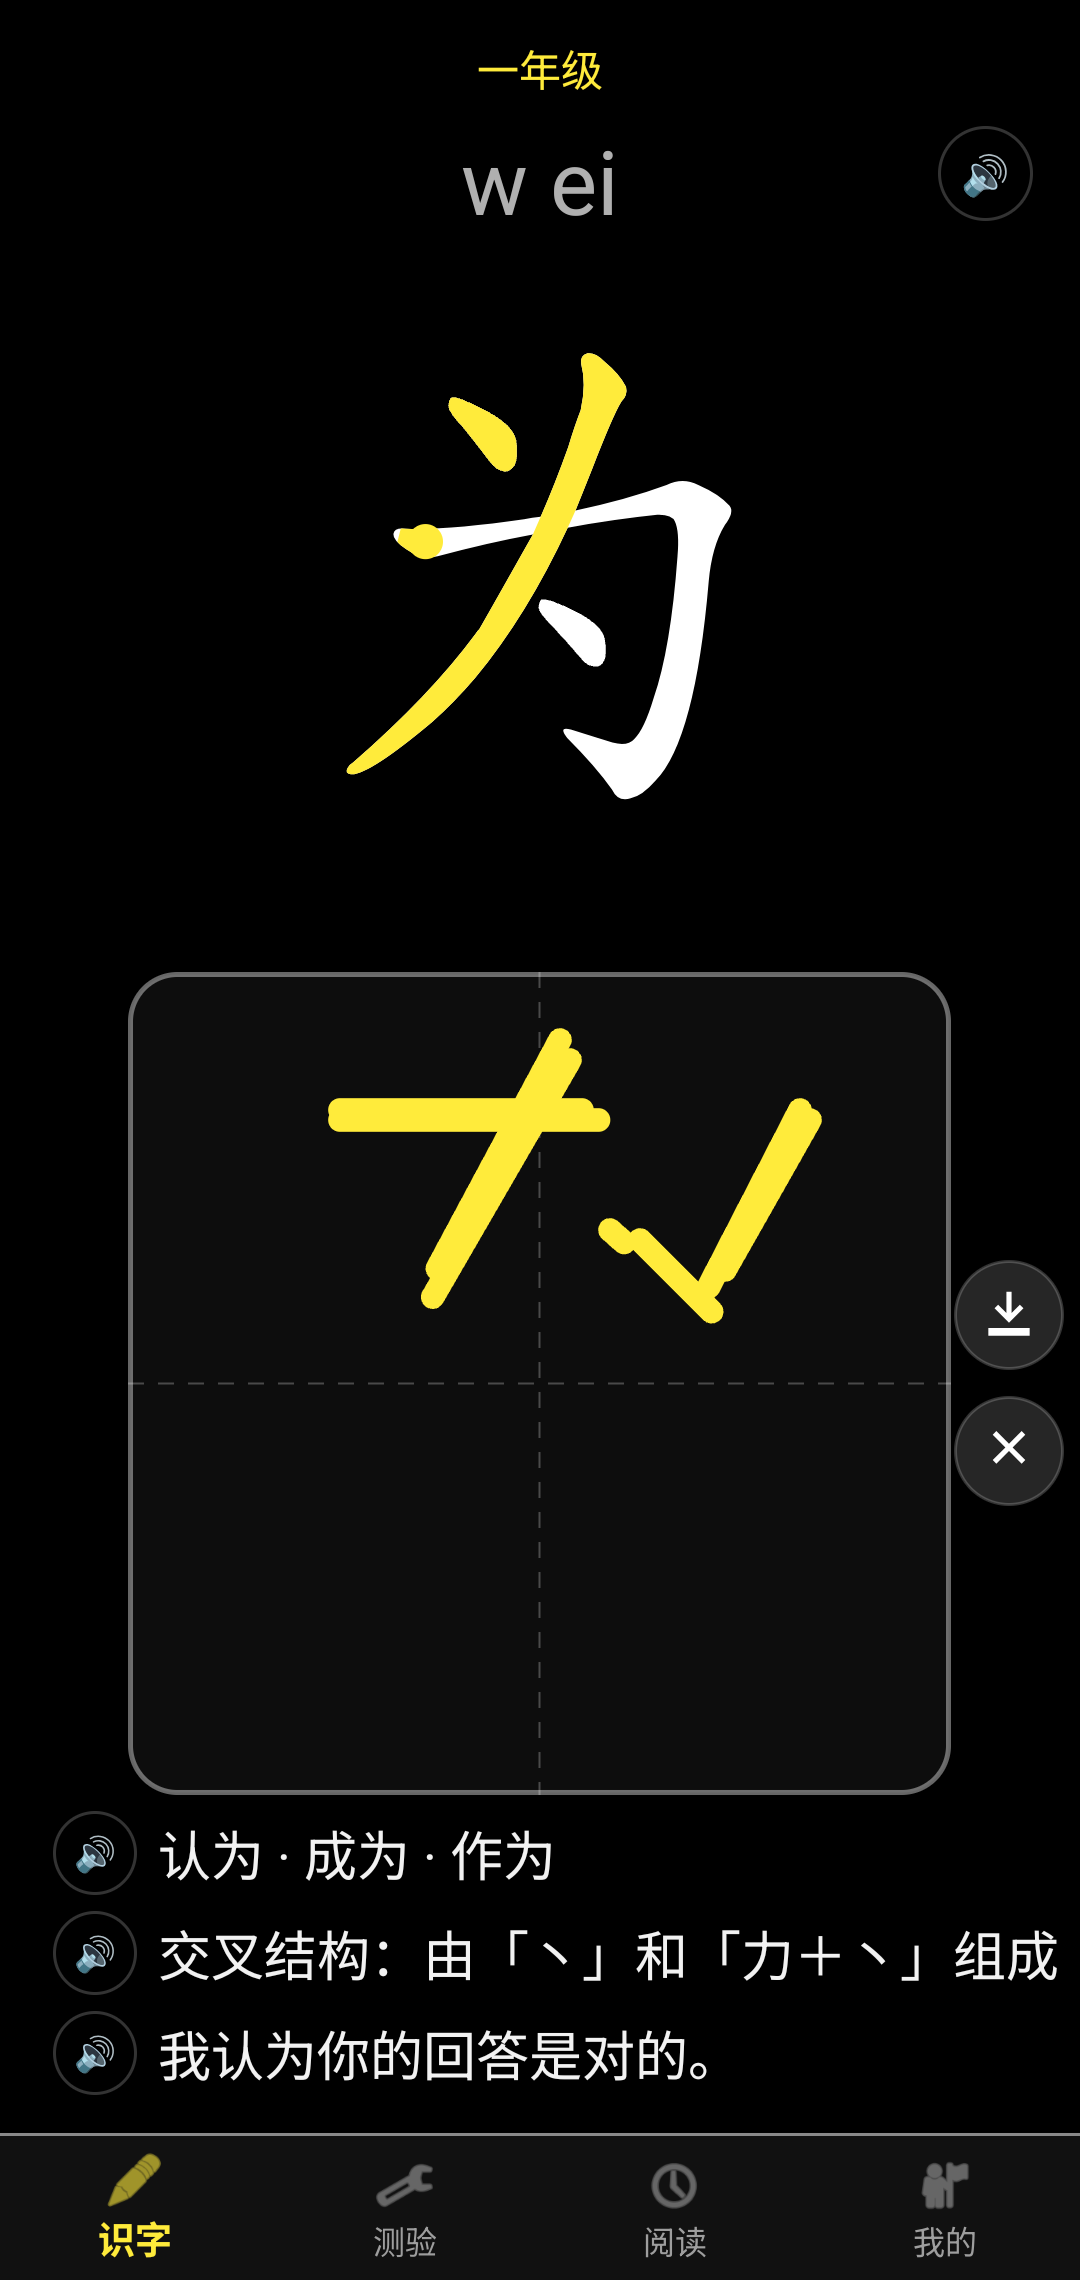
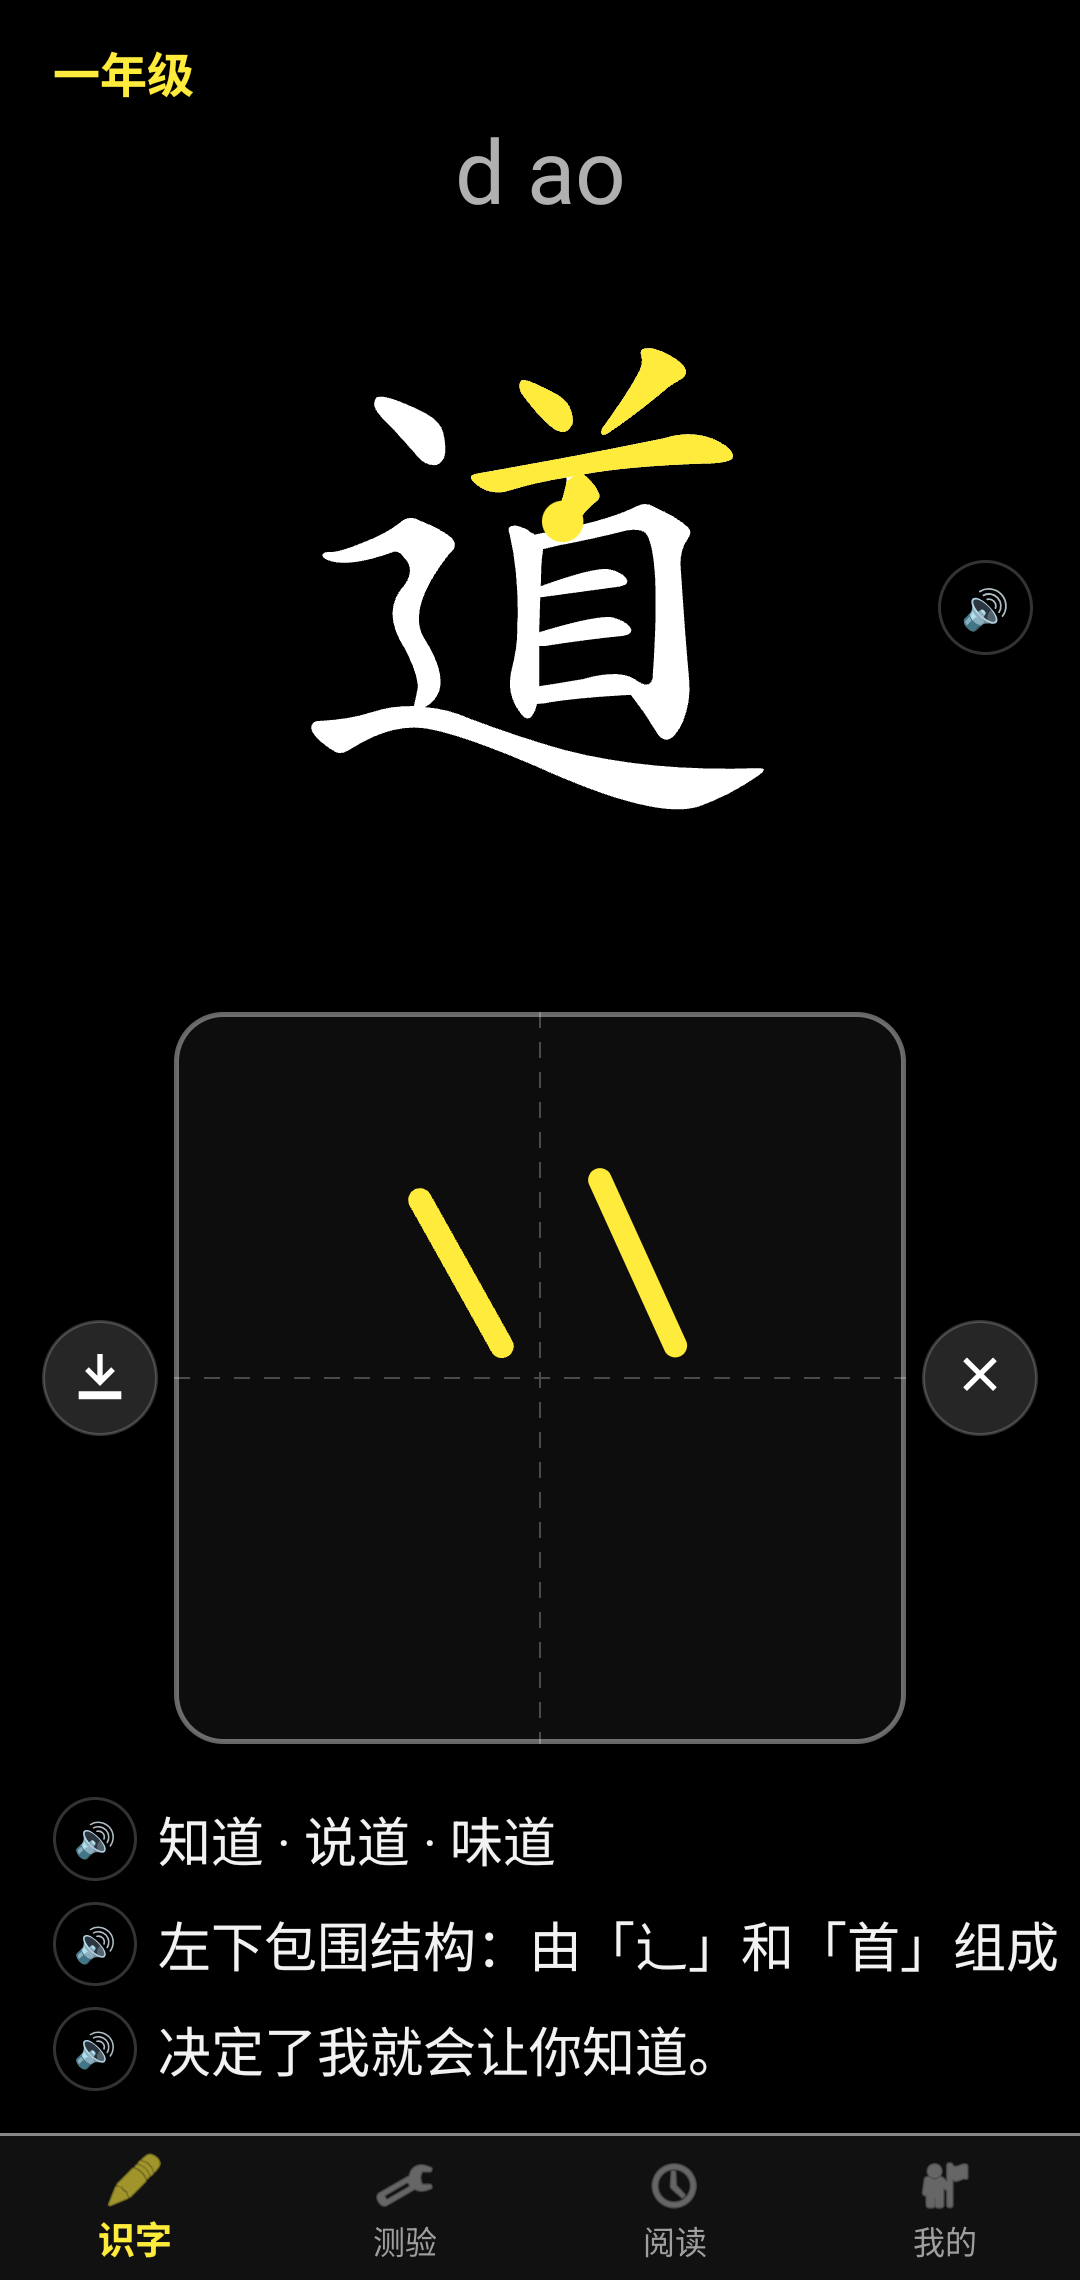
练写区重排：存图按钮挪到格子左侧、擦除留在右侧，格子边长只随屏幕宽度变化，和两个按钮的间距固定不再忽大忽小；拉开练写区与词组/巧记/场景的间距，整体行距微调

diff --git a/app/src/main/java/com/easyword/learn/view/DrawingView.java b/app/src/main/java/com/easyword/learn/view/DrawingView.java
@@ -116,8 +116,9 @@ public class DrawingView extends View {
     }
 
     /**
-     * 练写格永远保持正方形（边长取宽高里较小的一边），父容器会把它居中。
-     * 这样田字格看上去是“方正”的，而不是一条扁长的横条。
+     * 练写格永远保持正方形。边长取宽高里较小的一边，而宽度由布局给定
+     * （一行里左边存图、右边擦除，中间这一格等分剩下的宽度），所以每张卡片的
+     * 格子大小一样，和两边按钮的间距也就固定了，不会因为下面文字行数变化而忽宽忽窄。
      */
     @Override
     protected void onMeasure(int widthMeasureSpec, int heightMeasureSpec) {

diff --git a/README.md b/README.md
@@ -43,7 +43,8 @@
 ### 1. 识字（首页）
 
 - 全屏滑动刷字，**笔顺描红动画**（950 个字都有真实笔顺数据，按规范笔顺逐笔书写）
-- **田字格练写区**：手指直接写，写多粗的笔迹都看得清；写字时不会误翻页；格子右侧有扫把图标一键擦除
+- **田字格练写区**：手指直接写，写多粗的笔迹都看得清；写字时不会误翻页；
+  格子**左侧**是「存成图片」，**右侧**是「✕ 一键擦除」；格子边长只跟屏幕宽度有关，不管下面的字有几行，格子和两个按钮的距离都固定
 - **拼音带读**：点右上角喇叭跟着读一遍（认字 → 拼读 → 词组 → 巧记 → 场景），拼音会跟着变黄
 - 每个字配 **词组 / 巧记 / 场景** 三行，点行首的小喇叭就能单独听
 
